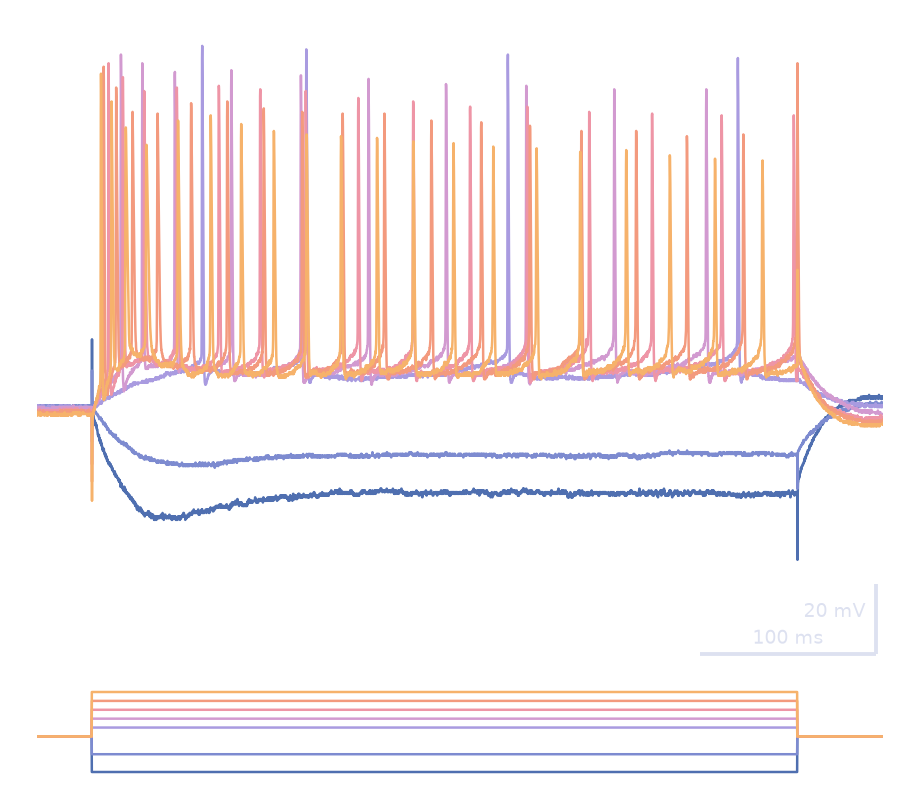
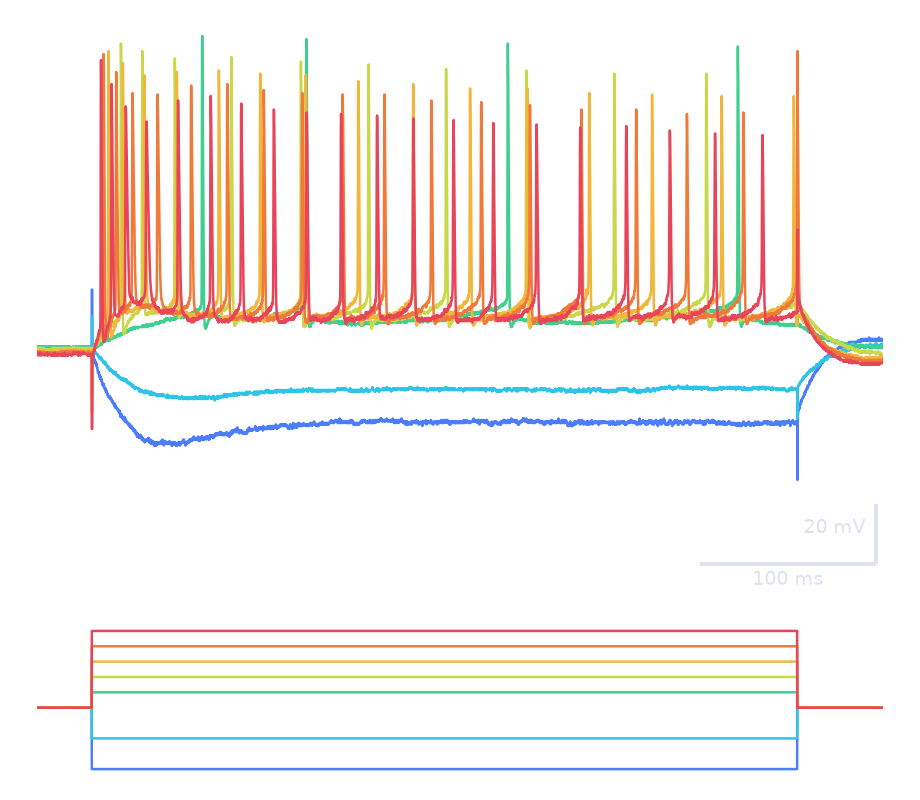
Electrophysiology figures: distinct colours, more room for the steps
Seven clearly different colours (blue to red) for the sweeps and their current
steps; the steps get more height so they are easy to tell apart.

Changed region(s): [[0.0304, 0.0625, 0.9739, 0.75], [0.0609, 0.7812, 0.9435, 0.9688], [0.8826, 0.75, 0.9739, 0.8125]]

diff --git a/backend/tools/draw_trace_figures.py b/backend/tools/draw_trace_figures.py
@@ -7,7 +7,7 @@ The .abf files are the recordings' download links in data/internal/electrophysio
 (95912005, 95810035 and 98513011).
 
 Transparent background, light ink, the sweeps from -0.8 nA up to the strongest step
-overlaid (coloured from cool to warm, strongest on top), scale bars instead of axes,
+overlaid (one distinct colour each, blue to red, strongest on top), scale bars instead of axes,
 and the current steps underneath in the same colours.
 """
 import sys
@@ -18,8 +18,8 @@ matplotlib.use("Agg")
 import matplotlib.pyplot as plt
 
 INK = "#dde1f0"
-# cool (most negative step) to warm (strongest step)
-GRADIENT = ["#4f6fb0", "#7d8bd0", "#a99be0", "#d29ad0", "#ee95a6", "#f39a7e", "#f6b26b"]
+# clearly distinct colours, from blue (most negative step) to red (strongest step)
+GRADIENT = ["#4c7dff", "#2ec4e6", "#3fcf8e", "#c8d84a", "#f2b63c", "#f07a3a", "#e8445a"]
 AMPS = [-0.8, -0.4, 0.2, 0.4, 0.6, 0.8, 1.0]
 
 def spikes(y):
@@ -40,8 +40,8 @@ def draw(path, out, width, height, t_end=0.48):
     t = np.arange(n) / rate * 1000
     fig = plt.figure(figsize=(width / 100, height / 100), dpi=200)
     fig.patch.set_alpha(0)
-    v = fig.add_axes([0.04, 0.17, 0.92, 0.79])
-    c = fig.add_axes([0.04, 0.03, 0.92, 0.11], sharex=v)
+    v = fig.add_axes([0.04, 0.25, 0.92, 0.72])
+    c = fig.add_axes([0.04, 0.03, 0.92, 0.19], sharex=v)
     for ax in (v, c):
         ax.set_axis_off()
         ax.patch.set_alpha(0)
@@ -51,14 +51,14 @@ def draw(path, out, width, height, t_end=0.48):
     lo = min(sw[1][:n].min() for sw in chosen)
     hi = max(sw[1][:n].max() for sw in chosen)
     # room under the lowest trace for the scale bars
-    v.set_ylim(lo - 30, hi + 4)
+    v.set_ylim(lo - 40, hi + 4)
     v.set_xlim(0, t[-1])
     # scale bars, bottom right below the traces: 100 ms and 20 mV
-    x1, y0 = t[-1] - 4, lo - 27
+    x1, y0 = t[-1] - 4, lo - 28
     v.plot([x1 - 100, x1], [y0, y0], color=INK, lw=1.4, solid_capstyle="butt")
     v.plot([x1, x1], [y0, y0 + 20], color=INK, lw=1.4, solid_capstyle="butt")
     fs = 7 if width < 700 else 8
-    v.text(x1 - 50, y0 + 1.5, "100 ms", color=INK, ha="center", va="bottom", fontsize=fs)
+    v.text(x1 - 50, y0 - 2, "100 ms", color=INK, ha="center", va="top", fontsize=fs)
     v.text(x1 - 6, y0 + 12, "20 mV", color=INK, ha="right", va="center", fontsize=fs)
     fig.savefig(out, transparent=True)
     plt.close(fig)
